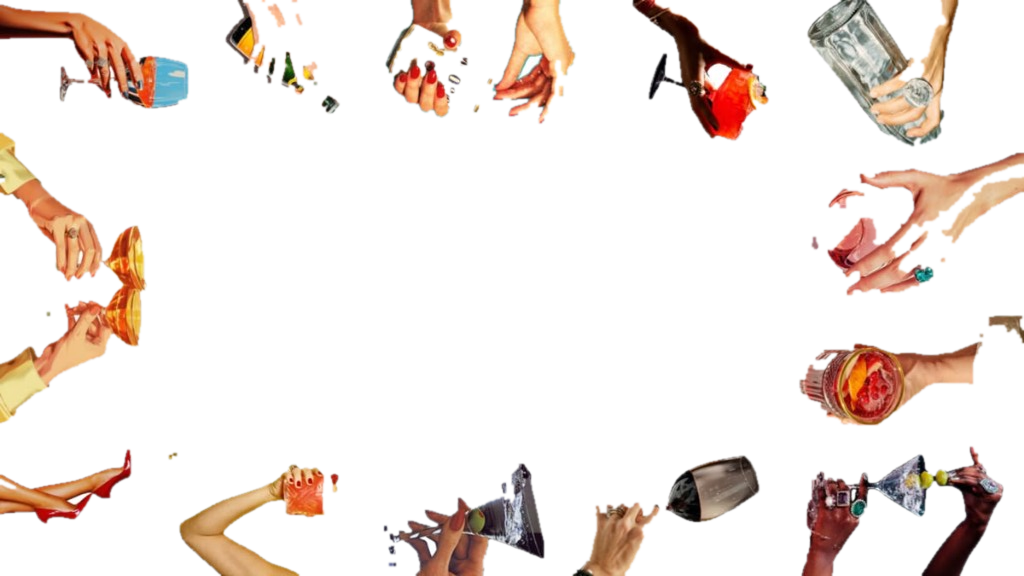
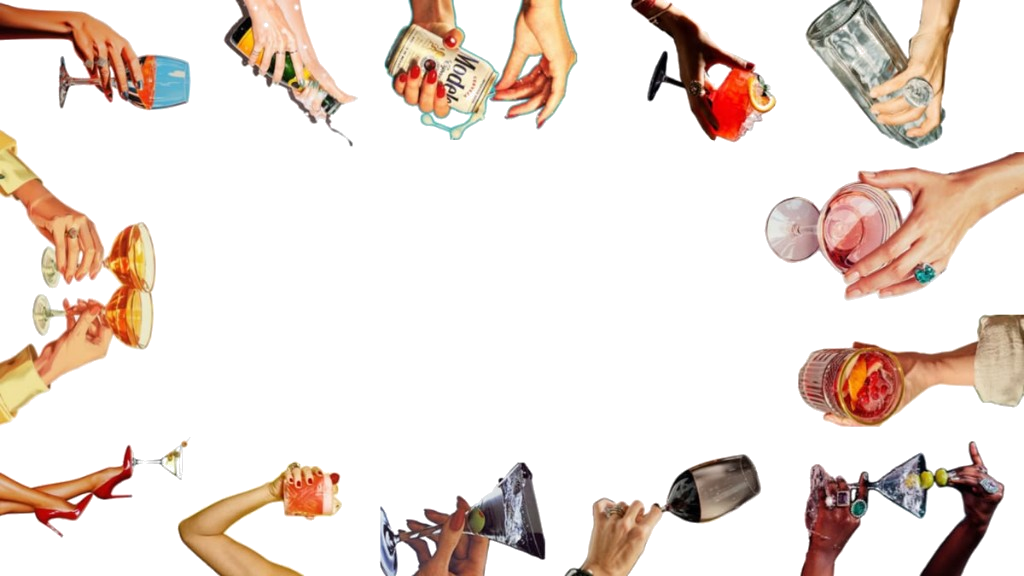
Make hands overlay flush with viewport edges

diff --git a/styles.css b/styles.css
@@ -1239,6 +1239,10 @@ h4 {
 }
 
 @media (max-width: 720px) {
+  .hands-overlay {
+    opacity: 0.78;
+  }
+
   .home-shell {
     width: min(100% - 24px, 520px);
     margin: 12px auto;

diff --git a/index.html b/index.html
@@ -13,7 +13,7 @@
     <link rel="stylesheet" href="./styles.css" />
   </head>
   <body class="home-page">
-    <img class="hands-overlay" src="./assets/hands-overlay.png" alt="" aria-hidden="true" />
+    <img class="hands-overlay" src="./assets/hands-overlay.png?v=3" alt="" aria-hidden="true" />
     <main class="home-shell">   
       <header class="home-nav">
         <div class="brand-mark">LUCERIA &amp; CO.</div>